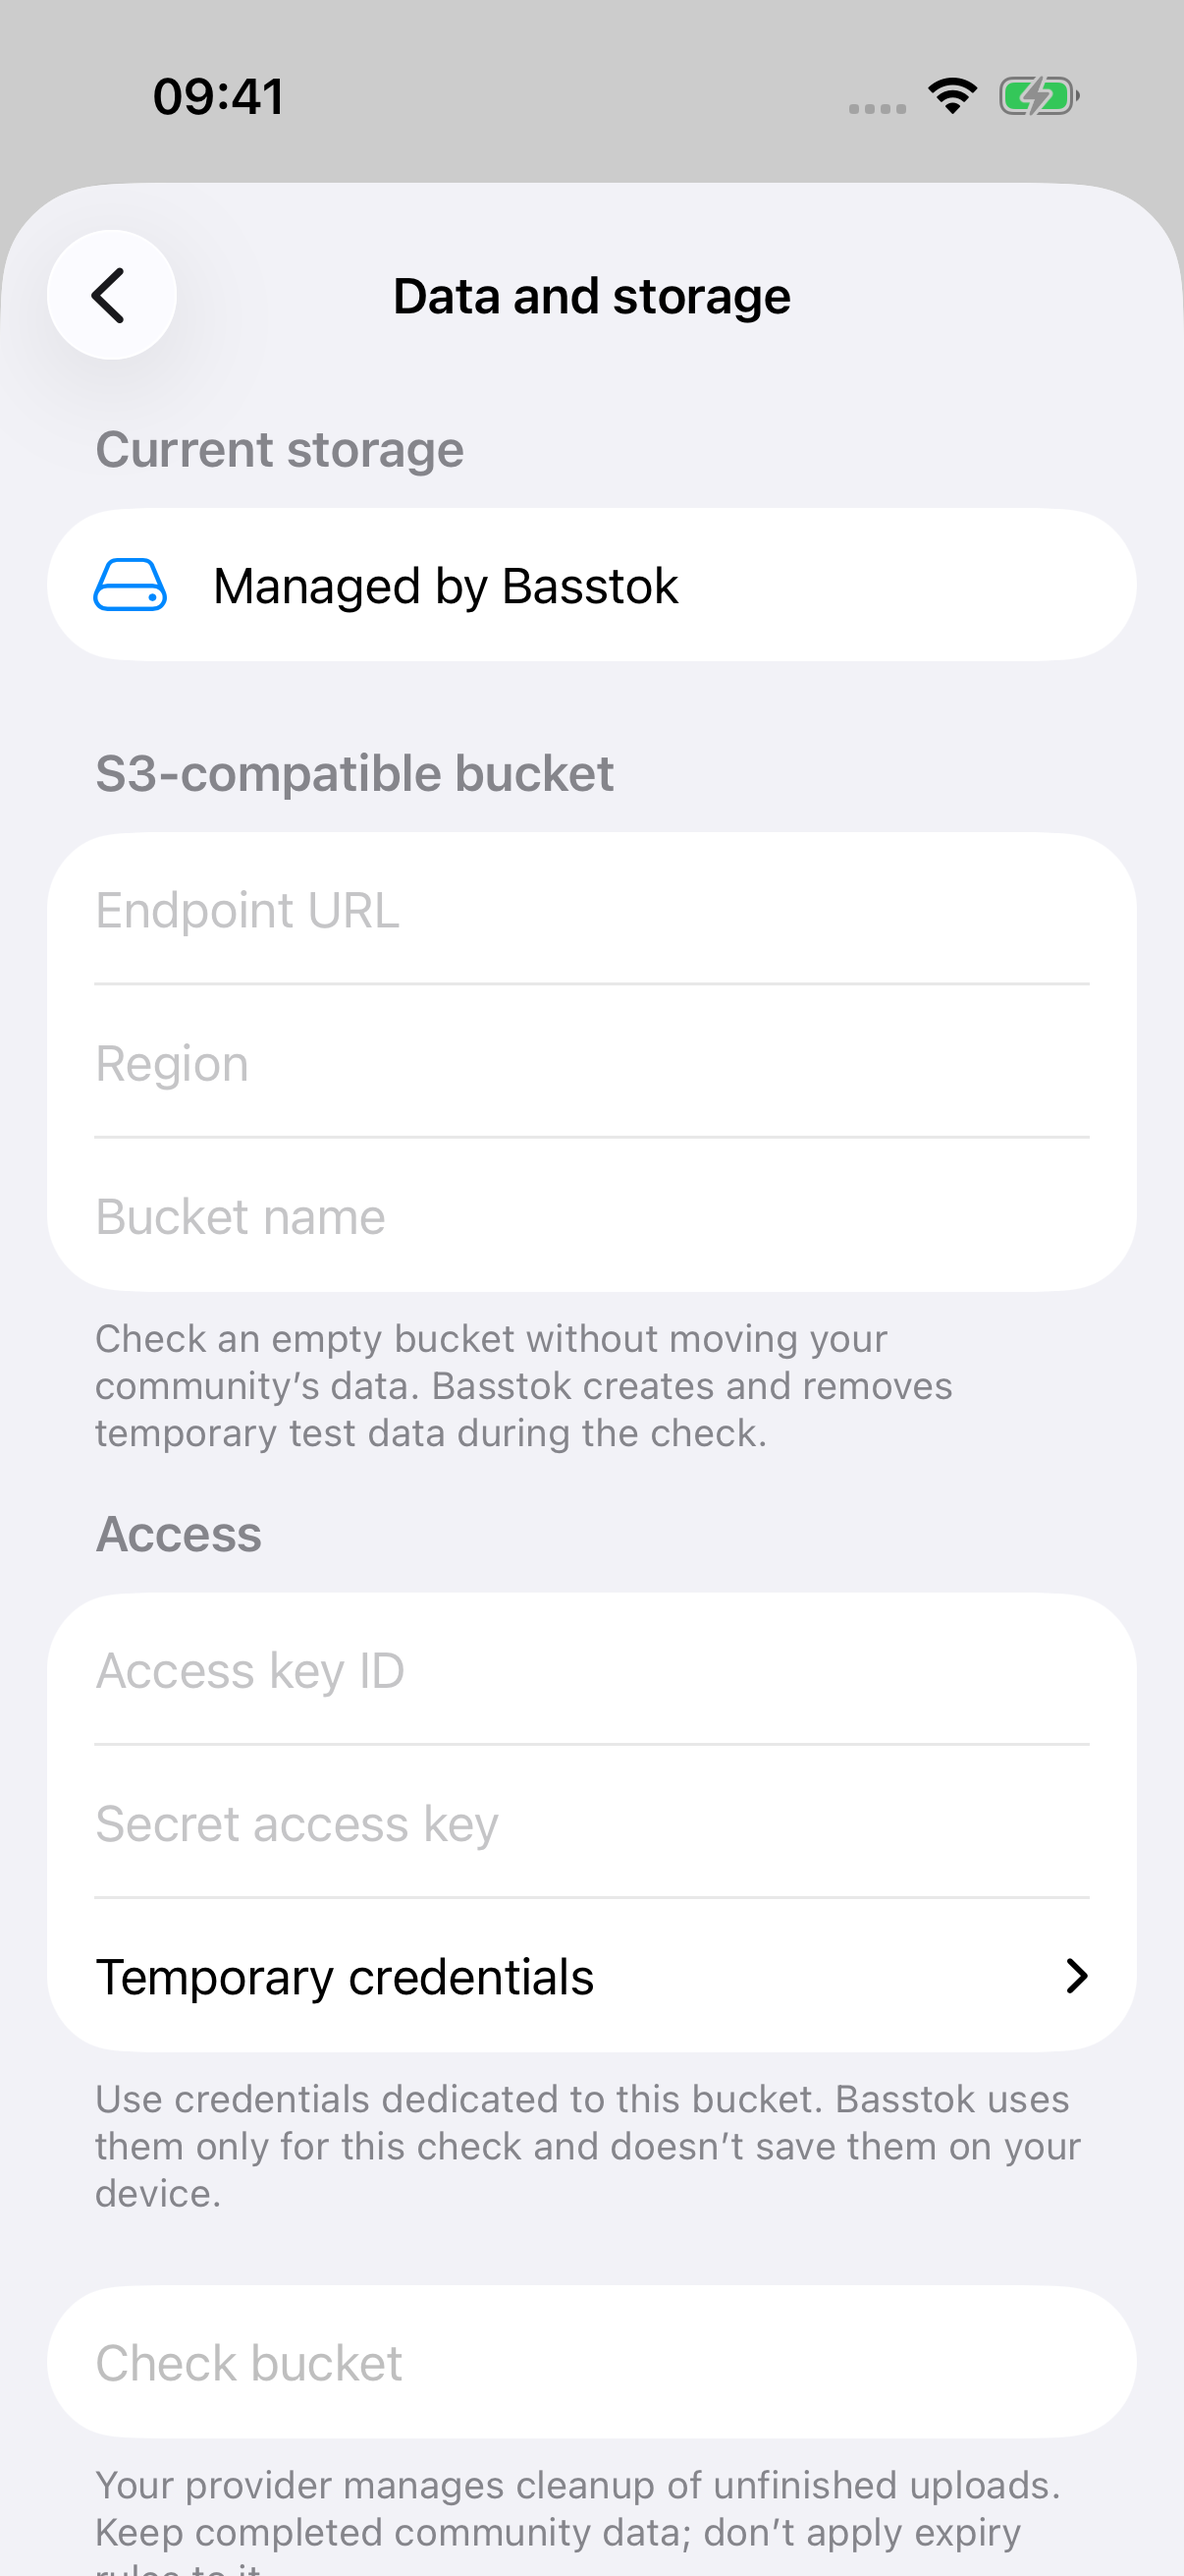
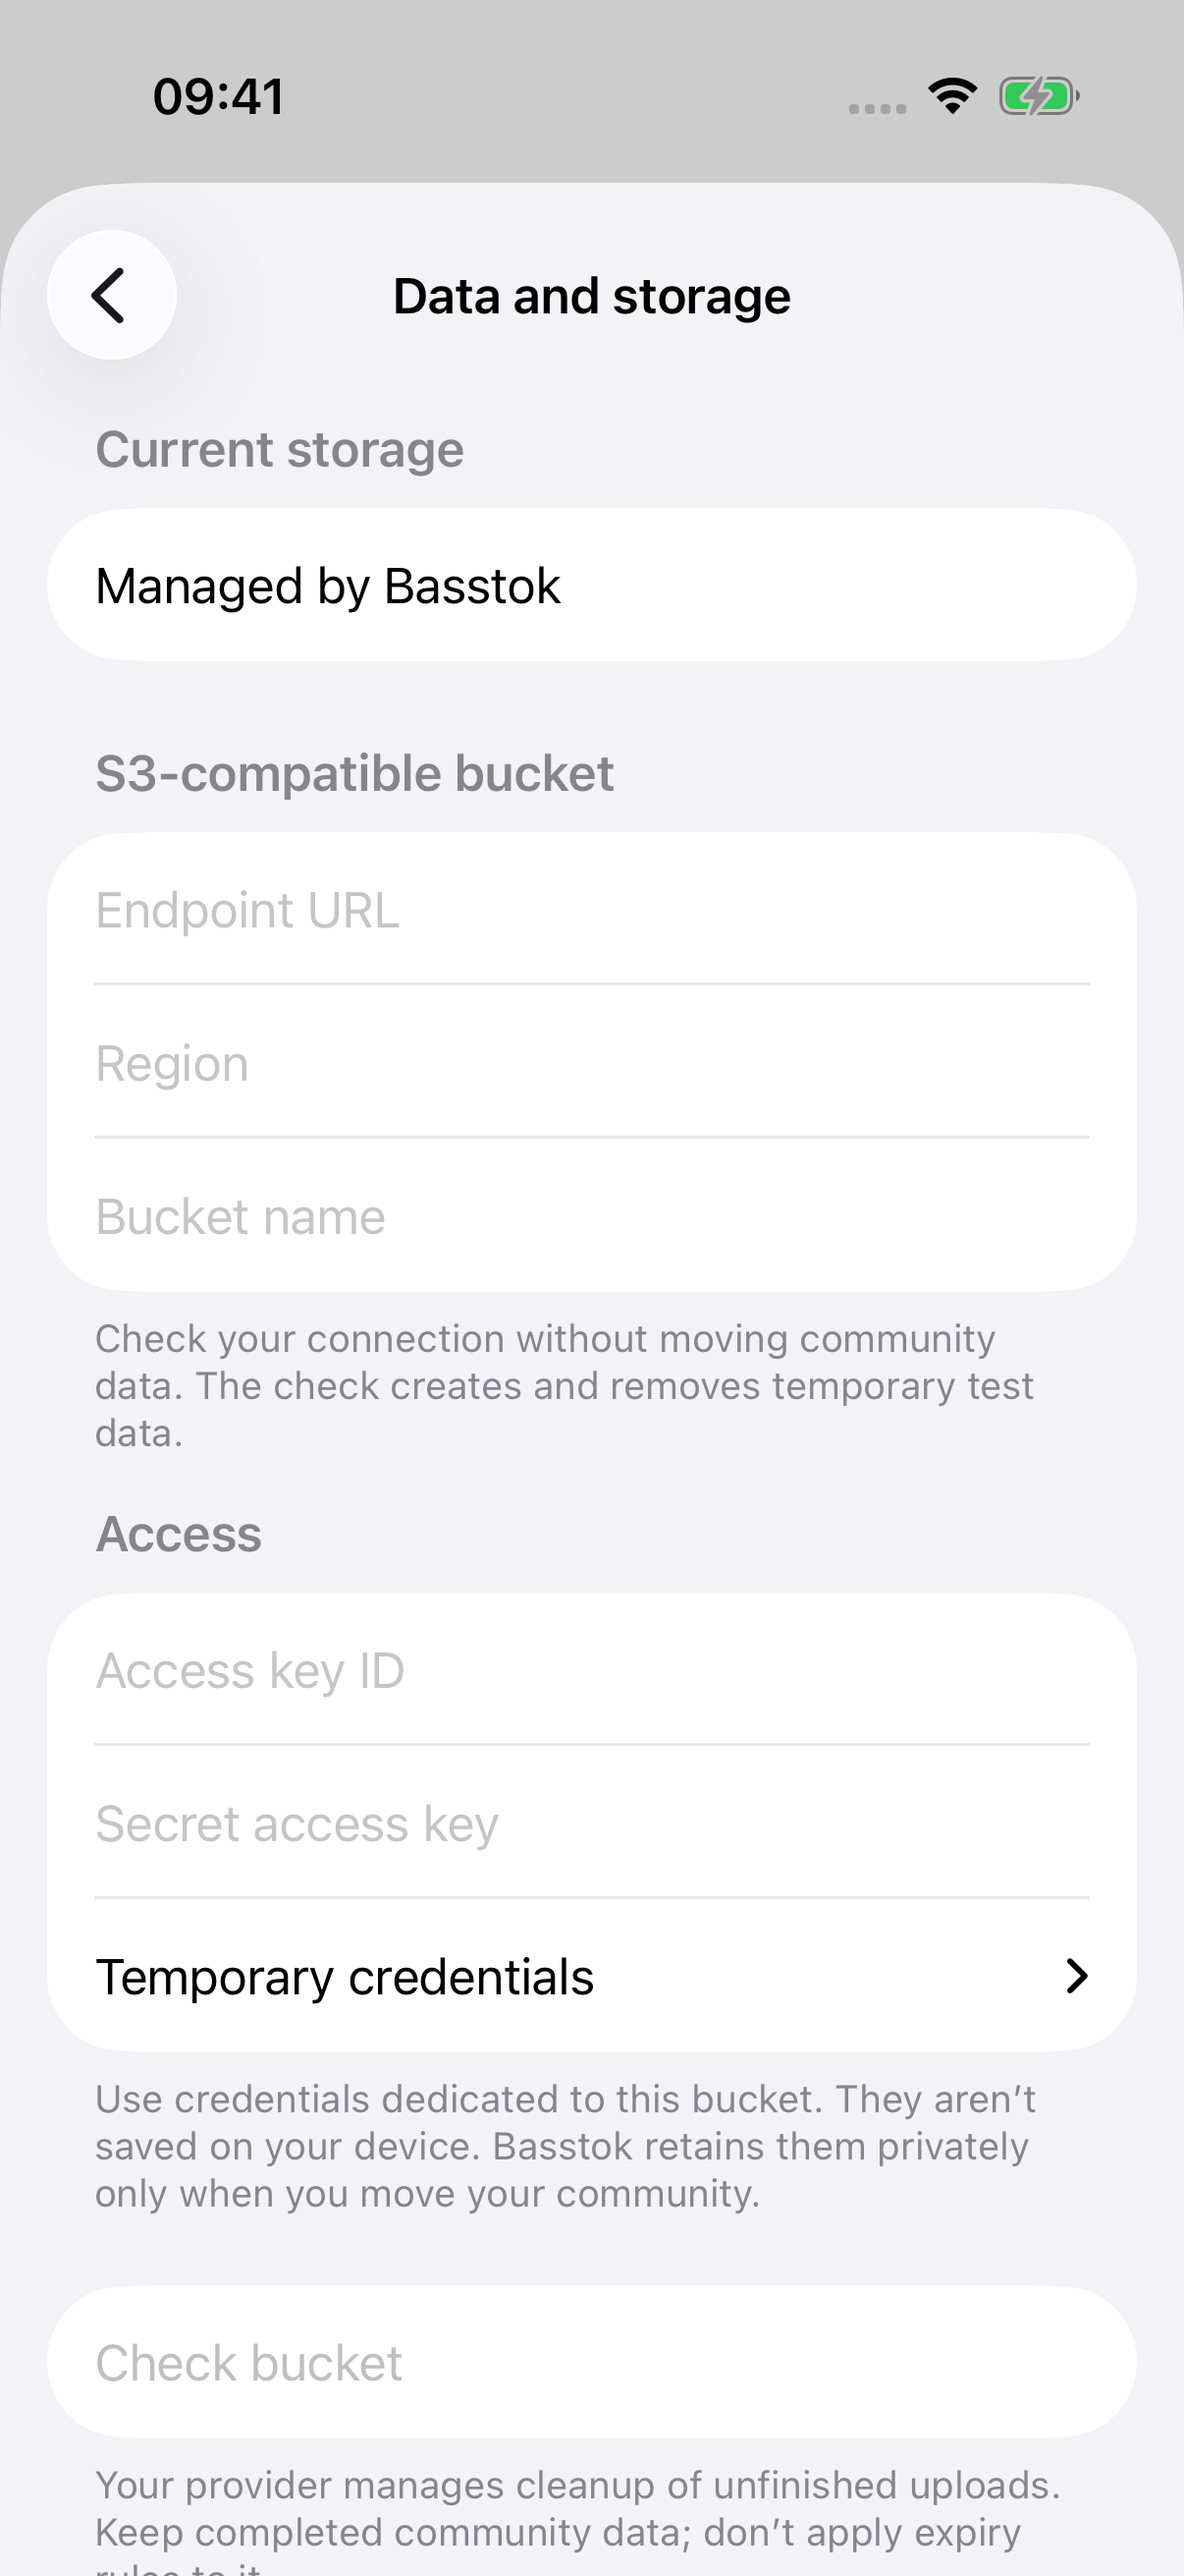
Show checking and connecting customer storage

diff --git a/docs/customer-managed-s3.md b/docs/customer-managed-s3.md
@@ -4,11 +4,16 @@ Customer-managed storage places a community's durable data in a dedicated
 private bucket under the customer's storage account. The data format and
 community permissions stay the same.
 
-Connecting a bucket currently uses assisted setup. Contact
-[Basstok](mailto:mail@basstok.com?subject=Customer-managed%20storage) to verify
-the chosen service and arrange initial setup. Managers can check its settings
-from Administration on iPhone, Android or the web without changing current
-storage.
+Open **Administration → Data and storage** on iPhone, Android or the web.
+Enter your bucket settings and choose **Check bucket**. Basstok tests access
+using temporary data, then removes it. Your current storage is unchanged.
+
+When you are ready, choose **Move community**. This separate confirmation moves
+an existing Basstok-managed community to your bucket. Community activity pauses
+while its data moves. You can close the screen and return to check progress;
+an interrupted move resumes after access is restored. Unfinished uploads may
+need to be started again. Completed files and community permissions remain
+intact.
 
 ## What a target needs
 
@@ -40,10 +45,11 @@ is not required.
 Basstok uses the enrolled target for supported community changes. It does not
 create or replace a customer's bucket implicitly. Credential rotation must be
 verified before the old credential is revoked; revoking the active credential
-can interrupt service. Moving existing community data to another target is not
-an automatic setup option.
+can interrupt service. Replacing an already connected customer bucket is not
+part of the in-app move. Contact Basstok before changing that target.
 
 Do not post credentials, private bucket addresses or data exports in GitHub
-issues or email. Contact Basstok first to arrange the appropriate setup.
+issues or email. Enter connection credentials only in the authorized storage
+screen, or arrange a secure setup with Basstok.
 
 [Privacy and recovery](privacy-and-recovery.md) · [Back to storage](../README.md)

diff --git a/README.md b/README.md
@@ -20,15 +20,14 @@ Keep exports private, because they can include private community records.
 
 ## Use your own bucket
 
-Managers can check bucket settings from Administration on iPhone, Android or
-the web. The check leaves your current storage unchanged.
+Check your bucket from Administration on iPhone, Android or the web. Nothing
+moves until a Manager chooses **Move community**.
 
 <img src="assets/iphone-storage.png" width="300" alt="Check bucket settings from Basstok on iPhone">
 
-Connecting a customer-managed S3-compatible bucket currently uses assisted
-setup. [Contact Basstok](mailto:mail@basstok.com?subject=Customer-managed%20storage)
-to check the chosen service and arrange initial setup. The in-app check does
-not connect the bucket or move an existing community.
+Basstok moves your existing community to the connected bucket. Activity pauses
+during the move; you can leave the screen and return to check progress. If a
+connection is interrupted, restore access and resume without starting over.
 
 [Customer-managed S3](docs/customer-managed-s3.md) covers bucket requirements
 and responsibilities. [Privacy and recovery](docs/privacy-and-recovery.md)
